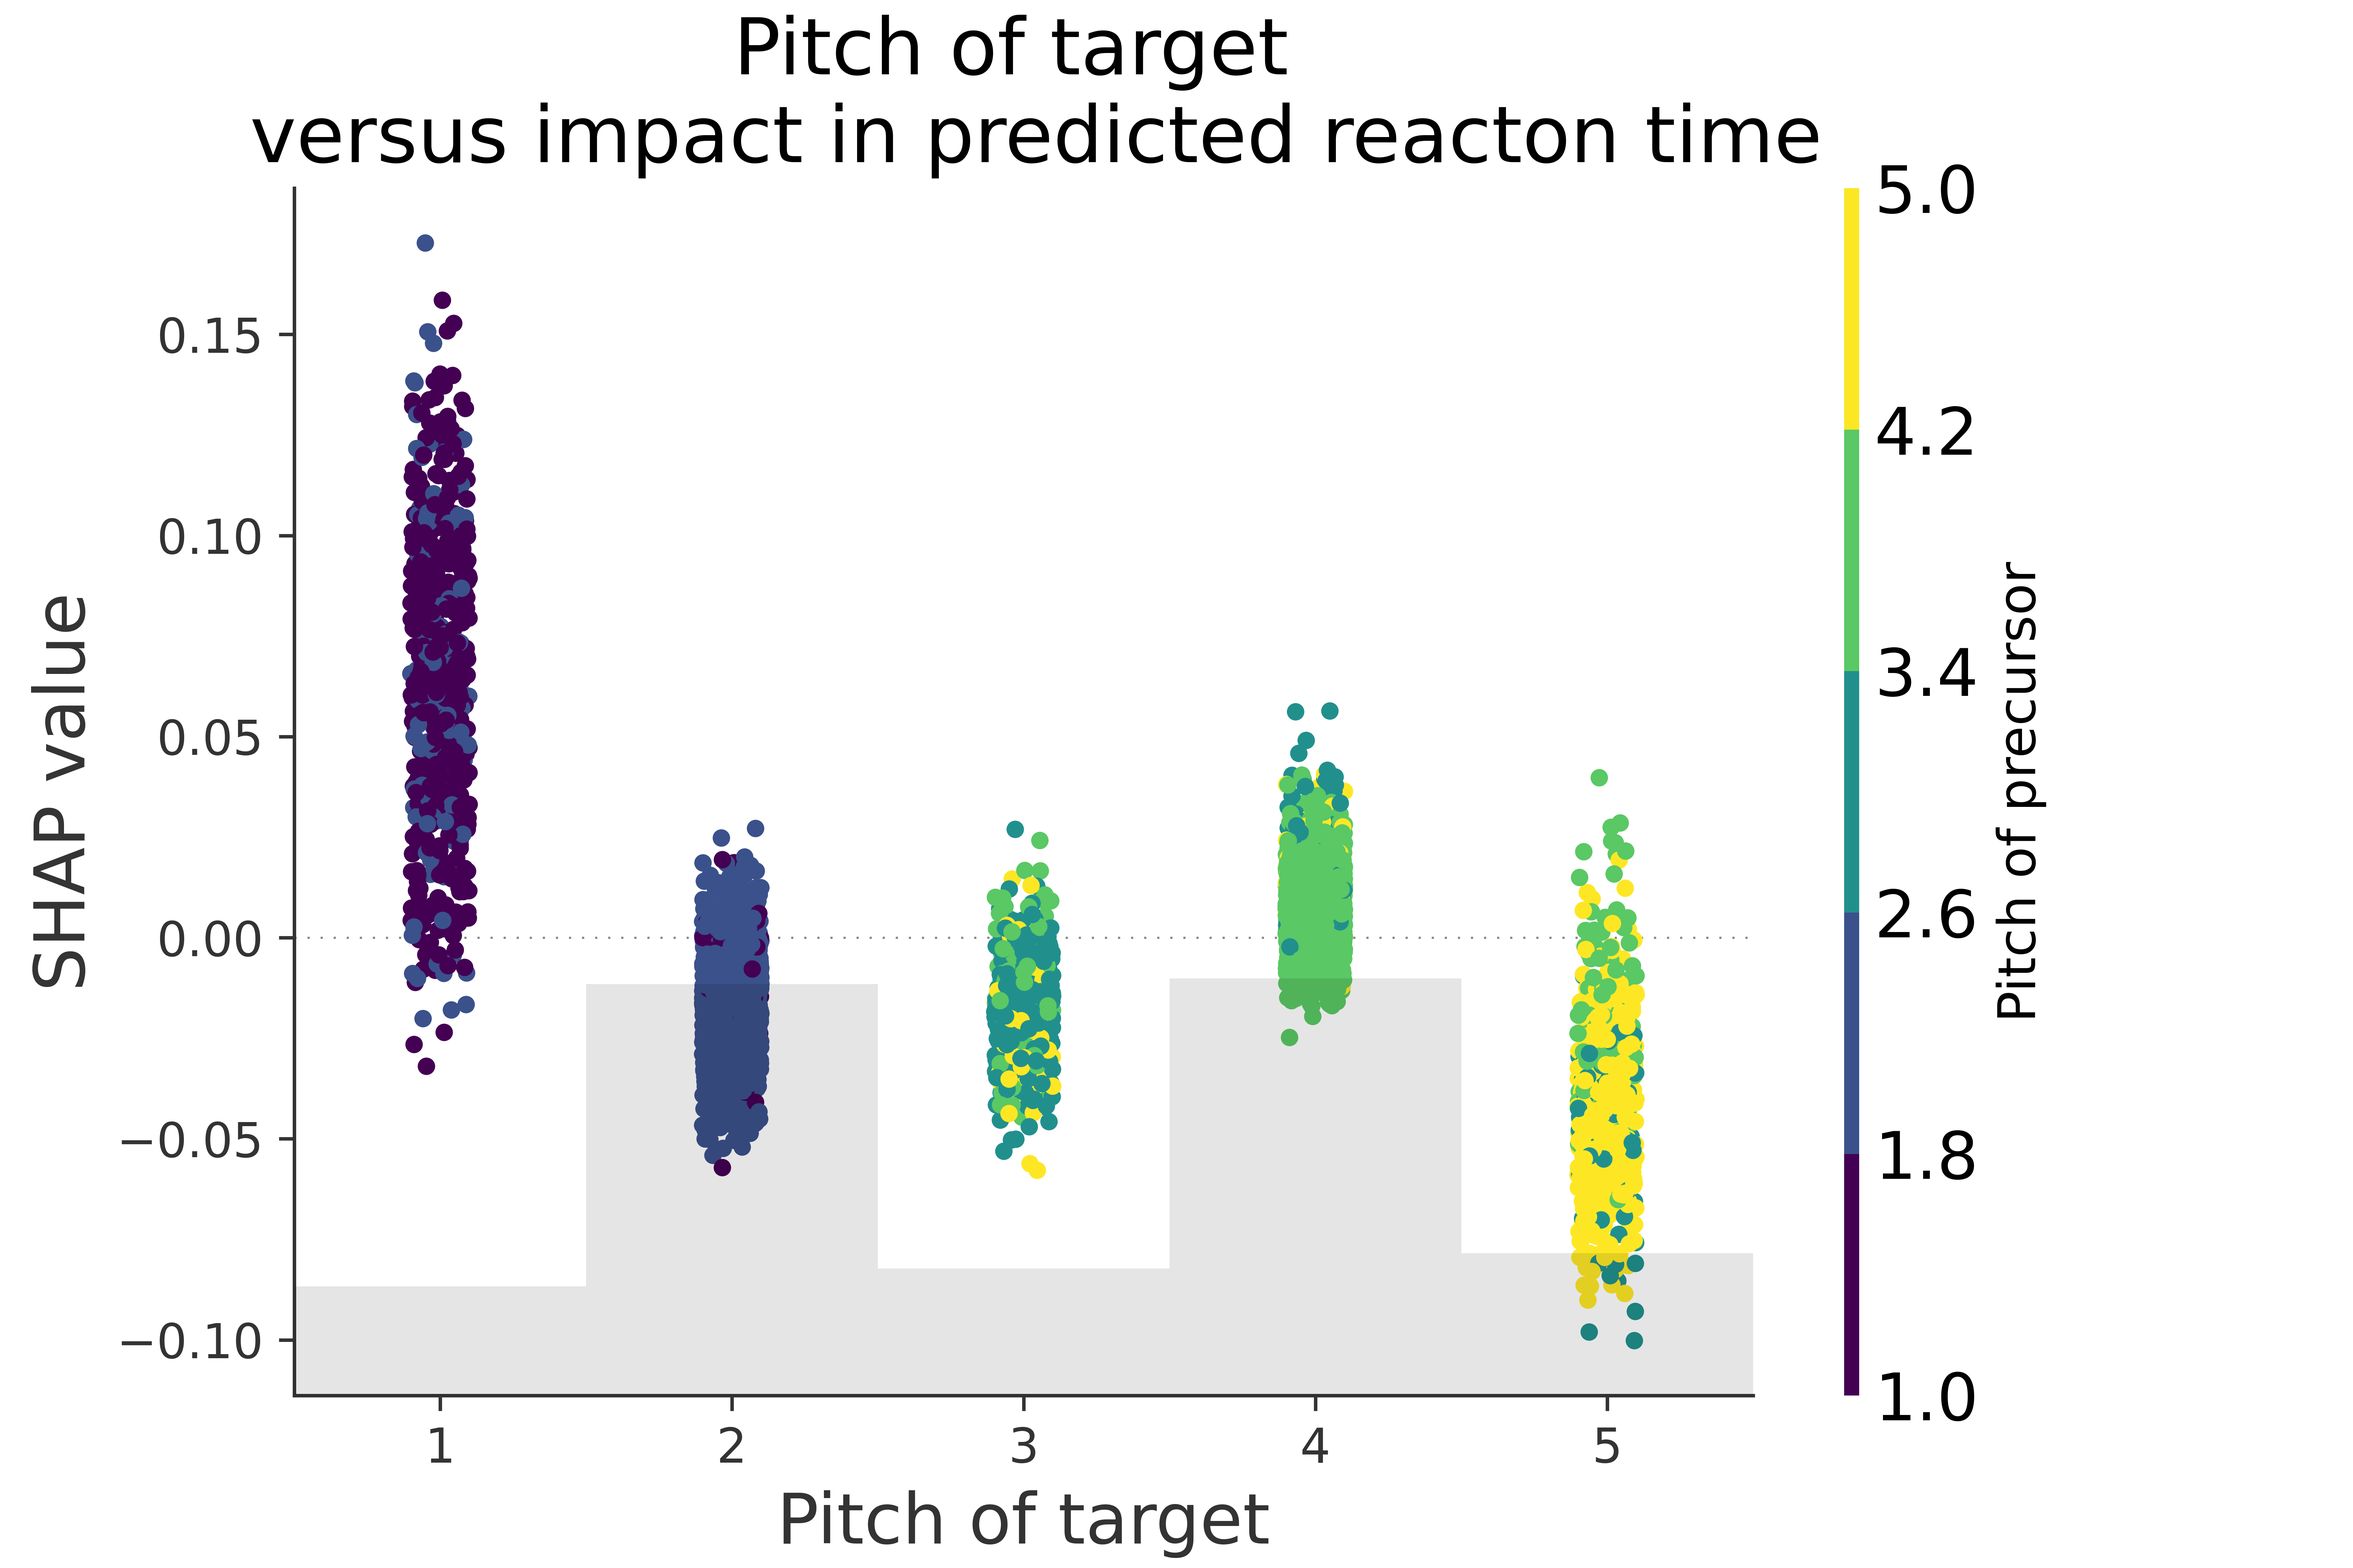
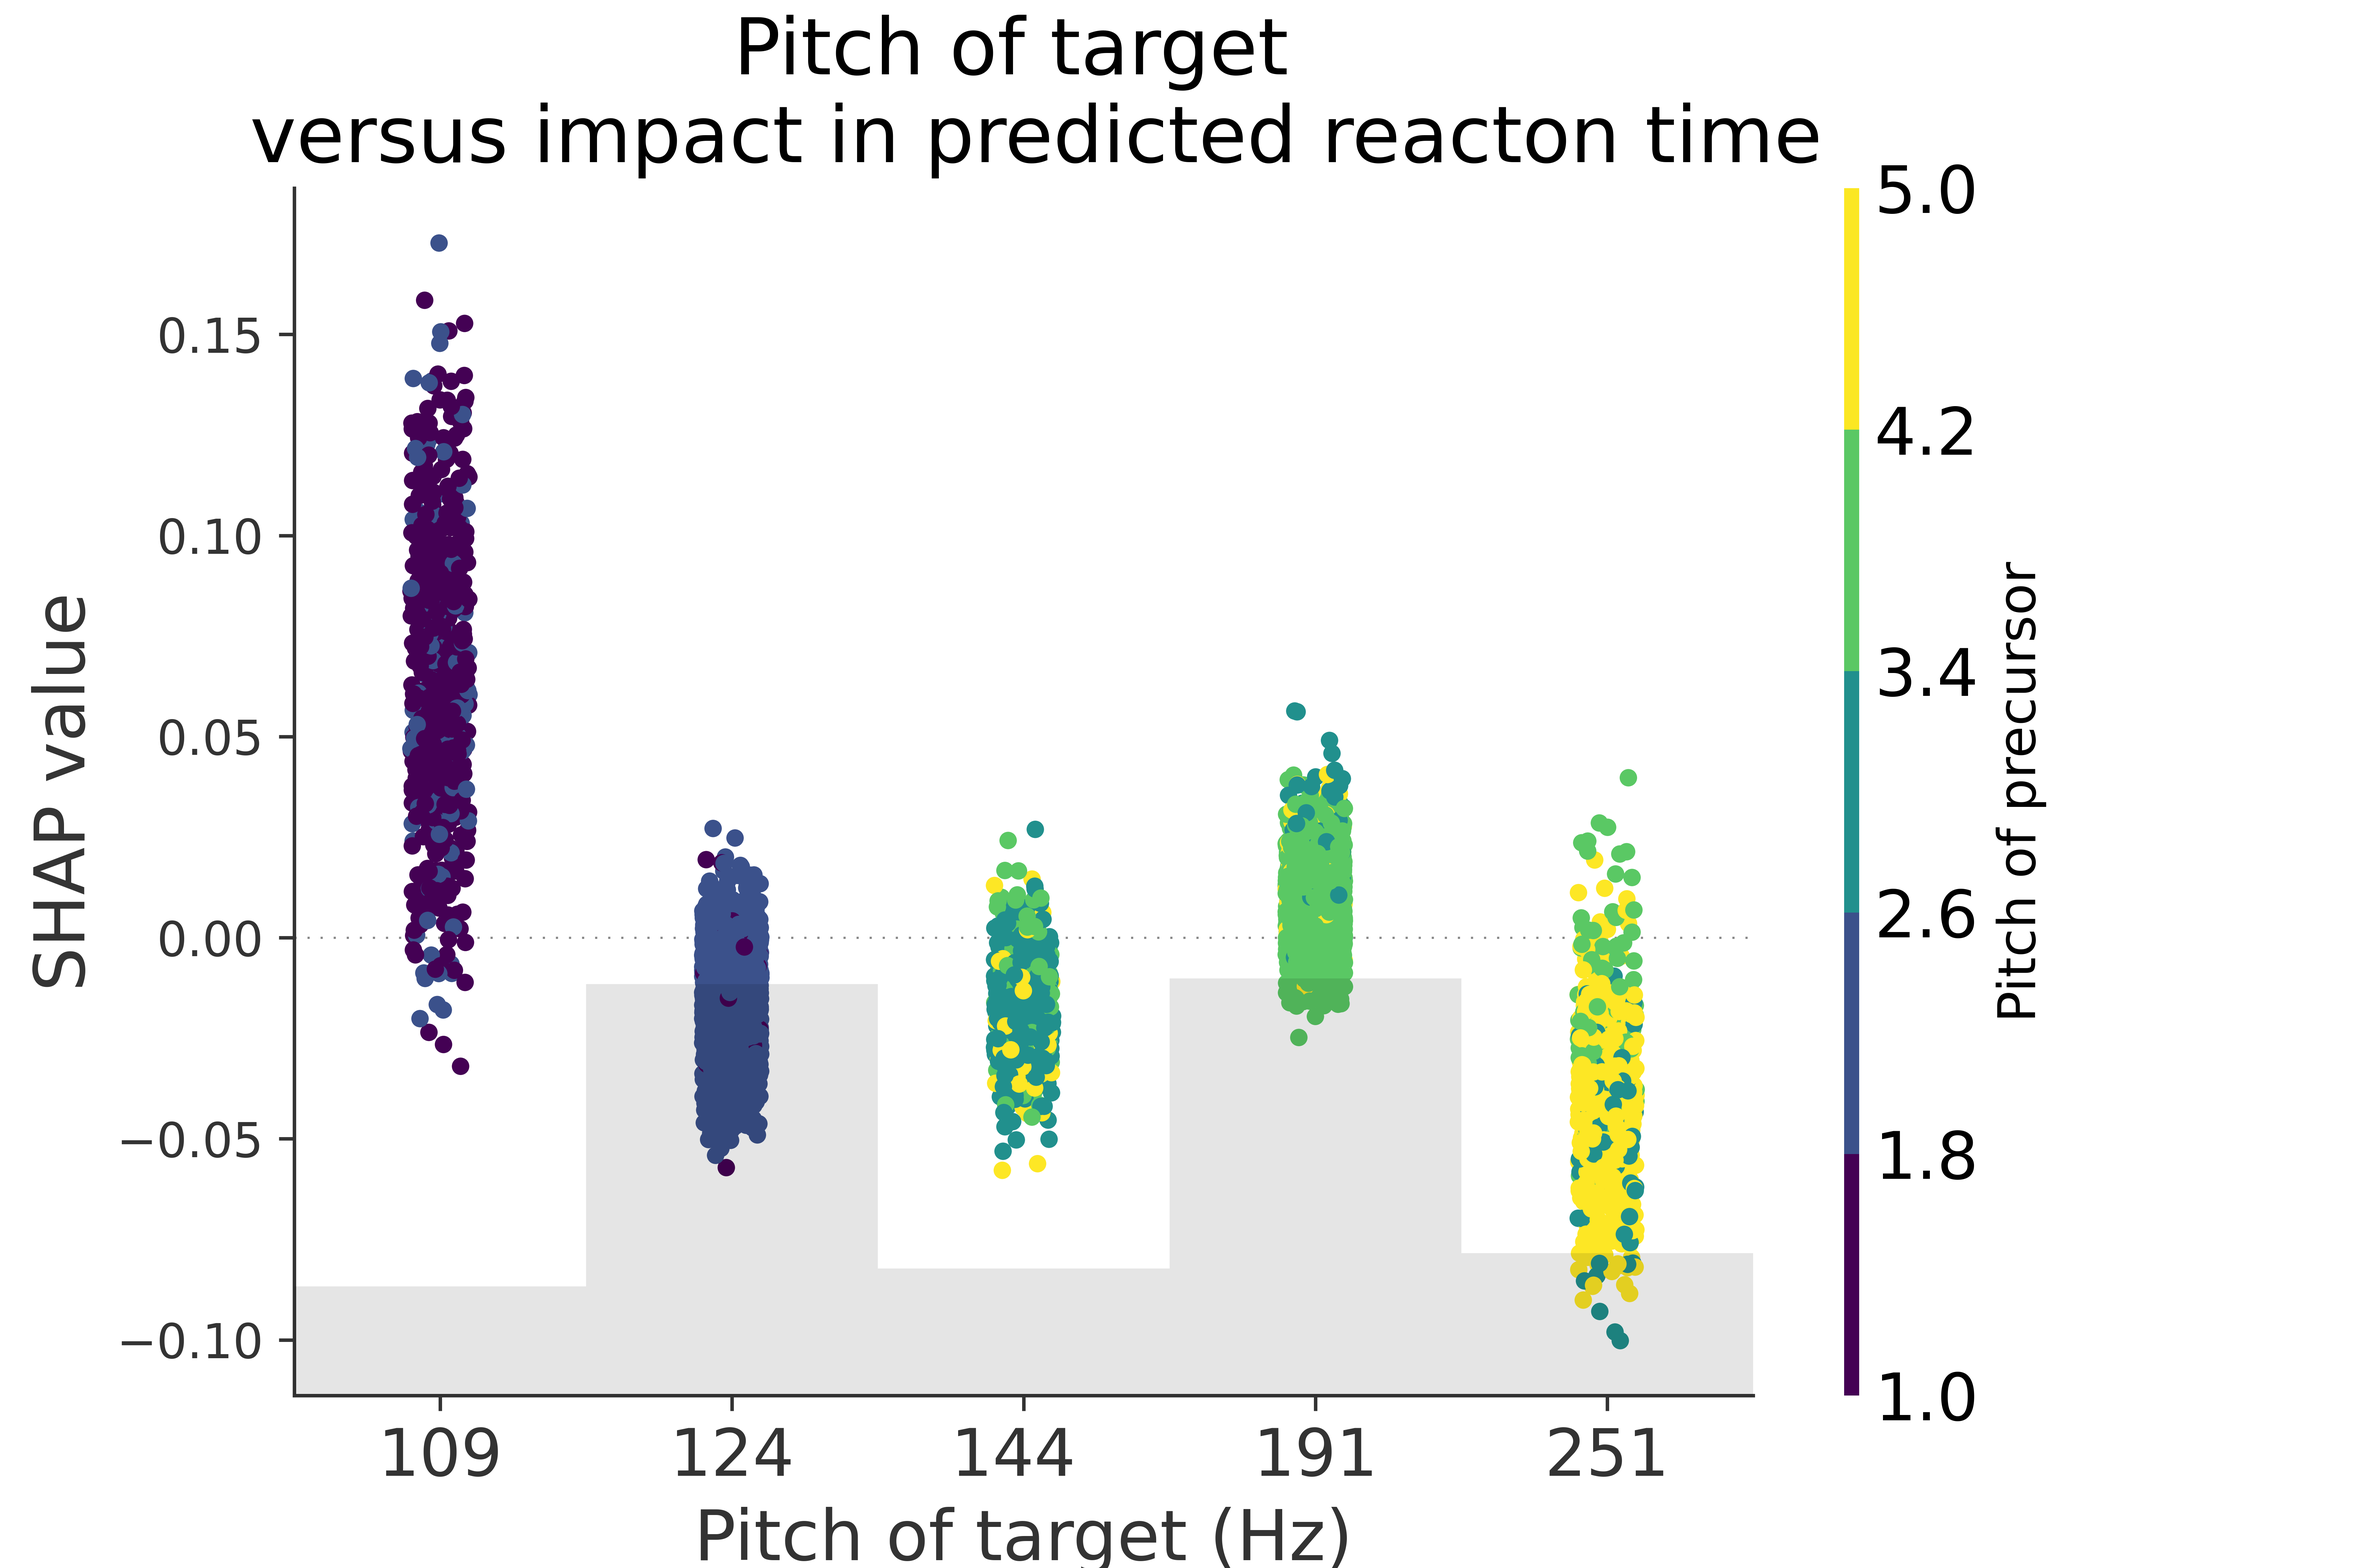
changing y-ticks of the cb_ax object

diff --git a/correctrespmissmodel.py b/correctrespmissmodel.py
@@ -219,13 +219,19 @@ def runlgbcorrectrespornotwithoptuna(dataframe, paramsinput=None, optimization =
     explainer = shap.Explainer(xg_reg, X_train)
     shap_values2 = explainer(X_train)
 
-    fig, ax = plt.subplots(figsize=(15, 15))
-    shap.plots.scatter(shap_values2[:, "trialNum"], color=shap_values2[:, "pitchofprecur"], ax=ax, cmap = cmapcustom)
+    fig, ax = plt.subplots()
+    shap.plots.scatter(shap_values2[:, "trialNum"], color=shap_values2[:, "pitchofprecur"], ax=ax, cmap = cmapcustom, show = False)
     fig, ax = plt.gcf(), plt.gca()
     cb_ax = fig.axes[1]
+
     # Modifying color bar parameters
     cb_ax.tick_params(labelsize=15)
-    cb_ax.set_ylabel("Pitch of precursor word", fontsize=15)
+    cb_ax.set_yticks([1, 2, 3,4, 5])
+    cb_ax.set_yticklabels(['109', '124', '144', '191', '251'])
+    cb_ax.set_ylabel("Pitch of precursor word (Hz)", fontsize=15)
+    plt.title('Trial number and its effet on the \n false alarm probability', fontsize = 18)
+    plt.xlabel('Trial number', fontsize = 15)
+    plt.ylabel('SHAP value', fontsize = 15)
     plt.savefig('D:/behavmodelfigs/correctresp_or_miss/trialnum_vs_precurpitch.png', dpi=1000, bbox_inches = "tight")
     plt.show()
 
@@ -251,11 +257,14 @@ def runlgbcorrectrespornotwithoptuna(dataframe, paramsinput=None, optimization =
     cb_ax = fig.axes[1]
     # Modifying color bar parameters
     cb_ax.tick_params(labelsize=15)
+    cb_ax.set_ticks([0, 1, 2, 3, 4])
     cb_ax.set_ylabel("Pitch of precursor", fontsize=12)
+    cb_ax.set_yticklabels( ['109 Hz', '124 Hz', '144 Hz', '191 Hz', '251 Hz'], fontsize=15)
     plt.ylabel('SHAP value', fontsize=10)
     plt.title('Pitch of target \n versus impact in miss probability', fontsize=18)
     plt.ylabel('SHAP value', fontsize=16)
-    plt.xlabel('Pitch of target', fontsize=16)
+    plt.xlabel('Pitch of target (Hz)', fontsize=16)
+    plt.xticks([1,2,3,4,5], labels=['109', '124', '144 ', '191', '251'], fontsize=15)
     plt.savefig('D:/behavmodelfigs/correctresp_or_miss/pitchoftargcolouredbyprecur.png', dpi=1000)
     plt.show()
 

diff --git a/reactiontimemodel.py b/reactiontimemodel.py
@@ -93,6 +93,7 @@ def runlgbreleasetimes_for_a_ferret(data, paramsinput=None, ferret=1, ferret_nam
     mse_train = cross_val_score(xg_reg, X_train, y_train, scoring='neg_mean_squared_error', cv=kfold)
 
     mse_test = mean_squared_error(ypred, y_test)
+    mse_test = cross_val_score(xg_reg, X_test, y_test, scoring='neg_mean_squared_error', cv=kfold)
     print("MSE on test: %.4f" % (mse_test) + ferret_name)
     print("negative MSE training: %.2f%%" % (np.mean(mse_train) * 100.0))
     print(mse_train)
@@ -243,12 +244,15 @@ def runlgbreleasetimes(X, y, paramsinput=None):
     # Get colorbar
     cb_ax = fig.axes[1]
     # Modifying color bar parameters
-    cb_ax.tick_params(labelsize=15)
+    cb_ax.tick_params(ticks=[-1, 0, 1], labelsize=15)
     cb_ax.set_ylabel("Pitch of precursor", fontsize=12)
+    cb_ax.set_yticklabels( ['109 Hz', '124 Hz', '144 Hz', '191 Hz', '251 Hz'], fontsize=15)
+
     plt.ylabel('SHAP value', fontsize=10)
     plt.title('Pitch of target \n versus impact in predicted reacton time', fontsize=18)
     plt.ylabel('SHAP value', fontsize=16)
-    plt.xlabel('Pitch of target', fontsize=16)
+    plt.xlabel('Pitch of target (Hz)', fontsize=16)
+    plt.xticks([1,2,3,4,5], labels=['109', '124', '144 ', '191', '251'], fontsize=15)
     plt.savefig('figs/correctrxntimemodel/pitchoftargcolouredbyprecur.png', dpi=1000)
     plt.show()
 

diff --git a/runlightgbmmodels.py b/runlightgbmmodels.py
@@ -307,19 +307,20 @@ def plotfalsealarmmodel(xg_reg, ypred, y_test, results, X_train, y_train, X_test
     plt.tight_layout()
     plt.subplots_adjust(left=-10, right=0.5)
 
-    shap.plots.scatter(shap_values2[:, "pitchofprecur"], color=shap_values2[:, "targTimes"], show=False,
+    shap.plots.scatter(shap_values2[:, "pitchofprecur"], color=shap_values2[:, "intra_trial_roving"], show=False,
                                  cmap=cmapcustom)
     fig, ax = plt.gcf(), plt.gca()
     # Get colorbar
     cb_ax = fig.axes[1]
     # Modifying color bar parameters
     cb_ax.tick_params(labelsize=15)
-    cb_ax.set_ylabel("Target Presentation Time", fontsize=12)
+    cb_ax.set_ylabel("Intra-trial roving", fontsize=12)
     plt.ylabel('SHAP value', fontsize=10)
     plt.title('Pitch of the precursor word \n versus impact in false alarm probability', fontsize=18)
+    plt.xticks([1,2,3,4,5], labels=['109 Hz', '124 Hz', '144 Hz', '191 Hz', '251 Hz'], fontsize=15)
     plt.ylabel('SHAP value', fontsize=16)
     plt.xlabel('Pitch of precursor word', fontsize=16)
-    plt.savefig('D:/behavmodelfigs/fa_or_not_model/pitchofprecurtargtimes.png', dpi=500)
+    plt.savefig('D:/behavmodelfigs/fa_or_not_model/pitchofprecurintratrialrove.png', dpi=500)
     plt.show()
 
 
